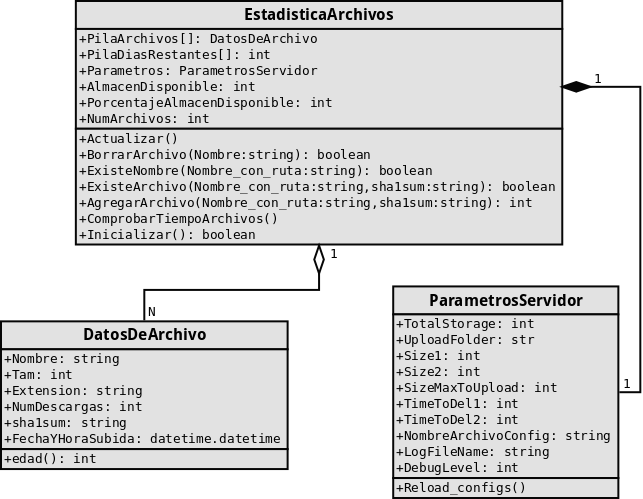
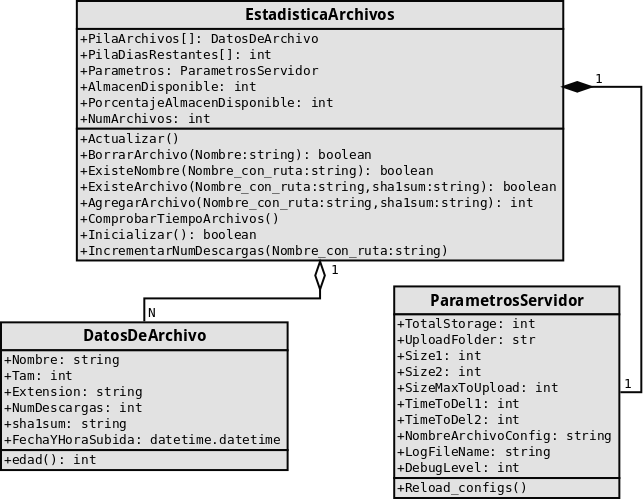
Cambiada licencia a AGPL, agregado contador de descargas basico

diff --git a/static/base.css b/static/base.css
@@ -47,7 +47,7 @@ body {
 	background-color: #D1C7AE;
 	font-family: monospace;
 	font-size: 14px;
-	border-style: dotted;
+	border-style: solid;
 	border-color: #C8B7A8;
 }
 
@@ -86,12 +86,12 @@ td.dias_restantes{
 }
 
 #dias_muchos{
-	color: #287528;
+	color: #3D713D;
 	font-weight: normal;
 }
 
 #dias_moderados{
-	color: #7D5A23;
+	color: #5C4C2B;
 	font-weight: bold;
 }
 
@@ -101,9 +101,10 @@ td.dias_restantes{
 }
 
 a{
-	color: #CA3E19	;
+	color: #1D1C14;
+	/*color: #936E0D;*/
 	text-decoration: none;
-	font-weight: normal;
+	font-weight: bold;
 	padding-bottom: 1px;
 	border-bottom: 1px #867F6E;
 	border-bottom-style: dotted;
@@ -111,7 +112,7 @@ a{
 }
 
 a:hover {
-	font-weight: bold;
+	font-weight: bolder;
 	border-bottom-width: 2px;
-	border-bottom-style: dotted;
+	border-bottom-style: solid;
 }

diff --git a/Parametros_Servidor.py b/Parametros_Servidor.py
@@ -1,24 +1,20 @@
 '''
+Botadero, una aplicacion para compartir archivos libremente.
 Copyright (C) 2016 Rodrigo Garcia <strysg@riseup.net>
 
-This file is part of botadero.
-
 This program is free software: you can redistribute it and/or modify
-it under the terms of the GNU General Public License as published by
+it under the terms of the GNU Affero General Public License as published by
 the Free Software Foundation, either version 3 of the License, or
 (at your option) any later version.
 
 This program is distributed in the hope that it will be useful,
 but WITHOUT ANY WARRANTY; without even the implied warranty of
 MERCHANTABILITY or FITNESS FOR A PARTICULAR PURPOSE.  See the
-GNU General Public License for more details.
+GNU Affero General Public License for more details.
 
-You should have received a copy of the GNU General Public License
+You should have received a copy of the GNU Affero General Public License
 along with this program.  If not, see <http://www.gnu.org/licenses/>.
-  
 '''
-
-#from flask import request, redirect, url_for
 from logs import initLogs
 import os
 
@@ -37,7 +33,7 @@ class ParametrosServidor:
     def __init__(self):
         self.NombreArchivoConfig = 'parametros.txt'
         self.TotalStorage = 0
-        self.UploadFolder = "almacen/"
+        self.UploadFolder = "almacen"
         self.Size1 = 0
         self.Size2 = 0
         self.TimeToDel1 = 0
@@ -53,7 +49,7 @@ class ParametrosServidor:
         self.NombreArchivoConfig = nombre_archivo_config
         # configuraciones por defecto por si falla la carga desde archivo
         self.TotalStorage = 80000000 #aprox 80 GB
-        self.UploadFolder = "almacen/"
+        self.UploadFolder = "almacen"
         self.Size1 = 100000 # aprox 100 MB
         self.Size2 = 500000 # aprox 500 MB
         self.TimeToDel1 = 15 # 15 days
@@ -89,14 +85,6 @@ class ParametrosServidor:
                         else:
                             err = err + 1
                             print '[CONFIG_FILE] - Error: TOTAL_STORAGE parameter'
-                    elif lis[0] == 'UPLOAD_FOLDER':
-                        if lis[1] != '':
-                            # quitando \n
-                            aux = lis[1].split("\n") 
-                            self.UploadFolder = aux[0]
-                        else:
-                            err = err + 1
-                            print '[CONFIG_FILE] - Error: UPLOAD_FOLDER parameter'
                     elif lis[0] == 'SIZE_1' and int(lis[1] > 0):
                         if lis[1] != '' and int(lis[1] > 0):
                             self.Size1 = int(lis[1])

diff --git a/botadero.py b/botadero.py
@@ -1,21 +1,19 @@
 '''
+Botadero, una aplicacion para compartir archivos libremente.
 Copyright (C) 2016 Rodrigo Garcia <strysg@riseup.net>
 
-This file is part of botadero.
-
 This program is free software: you can redistribute it and/or modify
-it under the terms of the GNU General Public License as published by
+it under the terms of the GNU Affero General Public License as published by
 the Free Software Foundation, either version 3 of the License, or
 (at your option) any later version.
 
 This program is distributed in the hope that it will be useful,
 but WITHOUT ANY WARRANTY; without even the implied warranty of
 MERCHANTABILITY or FITNESS FOR A PARTICULAR PURPOSE.  See the
-GNU General Public License for more details.
+GNU Affero General Public License for more details.
 
-You should have received a copy of the GNU General Public License
+You should have received a copy of the GNU Affero General Public License
 along with this program.  If not, see <http://www.gnu.org/licenses/>.
-  
 '''
 from flask import Flask
 from flask import render_template
@@ -33,6 +31,7 @@ EstadisticaArchivos = EstadisticaArchivos('parametros.txt', False)
 ParametrosServer = EstadisticaArchivos.Parametros
 
 app = Flask(__name__)
+app.config['UPLOAD_FOLDER'] = ParametrosServer.UploadFolder
 
 ##### Rutas #######
 @app.route('/')
@@ -54,6 +53,7 @@ Aqui se puede agregar algun mecanismo para acumular estadisticas
 '''
 @app.route('/almacen/<filename>')
 def donwload_file(filename):
+    EstadisticaArchivos.IncrementarNumDescargas(os.path.join(app.config['UPLOAD_FOLDER'], filename))
     return send_from_directory(app.config['UPLOAD_FOLDER'], filename, \
                                as_attachment=True)
 
@@ -122,8 +122,6 @@ def ls_archivos():
     # coloca cada archivo en la pantalla
     i = 0
     for arch in nombres:
-        #cad = cad + '<dl> <a href="%(up)s/%(arch)s"> %(arch)s </a>' % \
-        #{"up":ParametrosServer.UploadFolder, "arch": arch}
         # TODO: controlar excepcion
         size_long = pila_archivos[i].Tam
         unidades = "B"
@@ -165,8 +163,8 @@ if __name__ == '__main__':
     print "[PARAMETERS] - SIZE_MAX_TO_UPLOAD=%d" %ParametrosServer.SizeMaxToUpload
     print "[PARAMETERS] - Log File =%s" %ParametrosServer.LogFileName
     print "[PARAMETERS] - Debug Level =%d" %ParametrosServer.DebugLevel
-    app.config['UPLOAD_FOLDER'] = ParametrosServer.UploadFolder
 
-    #app.debug = True
+
+    app.debug = True
 
     app.run()

diff --git a/Estadisticas_Archivos.py b/Estadisticas_Archivos.py
@@ -1,21 +1,19 @@
 '''
+Botadero, una aplicacion para compartir archivos libremente.
 Copyright (C) 2016 Rodrigo Garcia <strysg@riseup.net>
 
-This file is part of botadero.
-
 This program is free software: you can redistribute it and/or modify
-it under the terms of the GNU General Public License as published by
+it under the terms of the GNU Affero General Public License as published by
 the Free Software Foundation, either version 3 of the License, or
 (at your option) any later version.
 
 This program is distributed in the hope that it will be useful,
 but WITHOUT ANY WARRANTY; without even the implied warranty of
 MERCHANTABILITY or FITNESS FOR A PARTICULAR PURPOSE.  See the
-GNU General Public License for more details.
+GNU Affero General Public License for more details.
 
-You should have received a copy of the GNU General Public License
+You should have received a copy of the GNU Affero General Public License
 along with this program.  If not, see <http://www.gnu.org/licenses/>.
-  
 '''
 import pickle
 from Parametros_Servidor import *
@@ -31,6 +29,14 @@ class EstadisticaArchivos:
 
         self.PilaArchivos = []
         self.PilaDiasRestantes = []
+
+    def GetIndexArchivo(self, Nombre_con_ruta):
+        i = 0
+        for pa in self.PilaArchivos:
+            if Nombre_con_ruta == pa.Nombre:
+                return i
+            i = i + 1
+        return -1
 
     def GetDatosArchivo(self,  Nombre_con_ruta):
         i = 0
@@ -56,9 +62,19 @@ class EstadisticaArchivos:
                 return False
         return False
         
+    def IncrementarNumDescargas(self, Nombre_con_ruta):
+        i = self.GetIndexArchivo(Nombre_con_ruta)
+        if i != -1:
+            self.PilaArchivos[i].NumDescargas = self.PilaArchivos[i].NumDescargas + 1
+            print "[REG] - Download: Count increased to %d" \
+                % self.PilaArchivos[i].NumDescargas,\
+                "        of file %s" % Nombre_con_ruta
+        else:
+            print "[REG] - Error: File %s" % Nombre_con_ruta,\
+                "        could not be found!"
 
     def AgregarArchivo(self, Nombre_con_ruta, sha1sum, file):
-
+        
         # comprobacion de espacio disponible
         fsize = len(file.read())
         file.seek(0) # restarudando puntero

diff --git a/datos_archivo.py b/datos_archivo.py
@@ -1,21 +1,19 @@
 '''
+Botadero, una aplicacion para compartir archivos libremente.
 Copyright (C) 2016 Rodrigo Garcia <strysg@riseup.net>
 
-This file is part of botadero.
-
 This program is free software: you can redistribute it and/or modify
-it under the terms of the GNU General Public License as published by
+it under the terms of the GNU Affero General Public License as published by
 the Free Software Foundation, either version 3 of the License, or
 (at your option) any later version.
 
 This program is distributed in the hope that it will be useful,
 but WITHOUT ANY WARRANTY; without even the implied warranty of
 MERCHANTABILITY or FITNESS FOR A PARTICULAR PURPOSE.  See the
-GNU General Public License for more details.
+GNU Affero General Public License for more details.
 
-You should have received a copy of the GNU General Public License
+You should have received a copy of the GNU Affero General Public License
 along with this program.  If not, see <http://www.gnu.org/licenses/>.
-  
 '''
 import os, sys, datetime, hashlib
 

diff --git a/README.md b/README.md
@@ -9,11 +9,13 @@ Los parámetros como espacio de alamcenamiento reservado para la aplicación, ti
 
 La app optimiza el almacenamiento evitando que se suban archivos con el mismo nombre o mismo contenido.
 
-*LICENCIA* **GPLv3**
+*LICENCIA* **AGPL**
 
 *Requiere* [Python-flask](http://flask.pocoo.org/docs/0.10/installation/#installation)
 
-*Ejecucion* Una vez instalado python-flask: `python2.7 botadero.py`
+*Ejecucion* Una vez instalado python-flask: `python2.7 botadero.py` en el directorio del proyecto.
+
+*Revisar logs* tail -f logs/botadero.log
 
 Esta aplicación no usa bases de datos.
 
@@ -22,13 +24,8 @@ Esta aplicación no usa bases de datos.
 Más urgentes primero.
 
 * Hacer una apariencia "responsive".
-* Agregar contador de descargas.
 * Implementar límites de subida por usuario, esto para prevenir que un usuario suba demasiados archivos.
-* Agregar Disclaimer y revisar cambiar LICENCIA a AGPL.
+* Agregar Disclaimer.
 * Desplegar el servicio y hacer pruebas iniciales.
 * Acelerar la comprobacion sha1sum y subida de archivos.
 * Implementar sistema detector de robots (captcha?).
-
-
-
-
